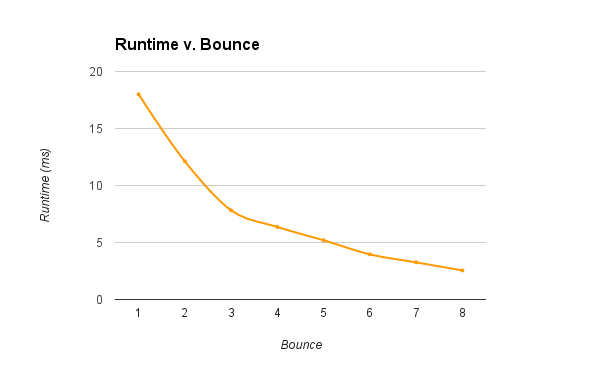
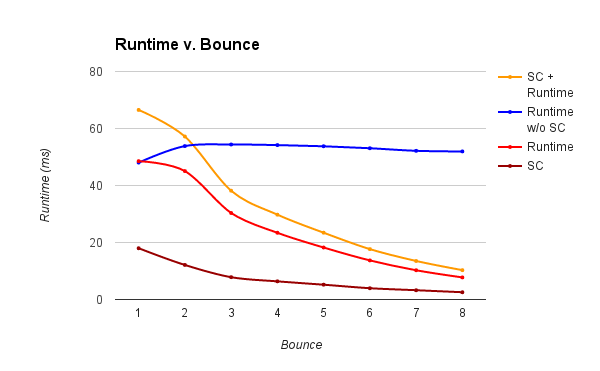
update plot

diff --git a/src/interactions.h b/src/interactions.h
@@ -384,13 +384,13 @@ thrust::default_random_engine &rng){
 		pathSegment.remainingBounces = 0;
 	}
 
-	// Russian Roulette!
-	if (pathSegment.remainingBounces == 0) {
-		thrust::uniform_real_distribution<float> u01(0, 1);
-		float maxTP = glm::max(pathSegment.throughput[0], glm::max(pathSegment.throughput[1], pathSegment.throughput[2]));
-		if (u01(rng) > glm::min(0.5f, maxTP))
-			pathSegment.remainingBounces = 0;
-	}
+	//// Russian Roulette!
+	//if (pathSegment.remainingBounces == 0) {
+	//	thrust::uniform_real_distribution<float> u01(0, 1);
+	//	float maxTP = glm::max(pathSegment.throughput[0], glm::max(pathSegment.throughput[1], pathSegment.throughput[2]));
+	//	if (u01(rng) > glm::min(0.5f, maxTP))
+	//		pathSegment.remainingBounces = 0;
+	//}
 
 
 	// Update throughput
